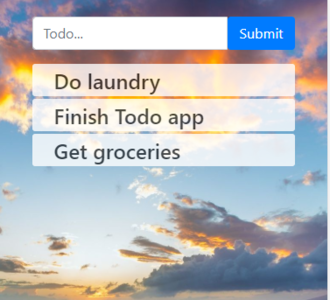
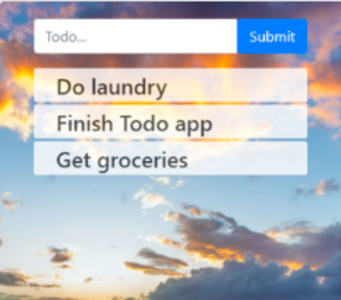
deploy

diff --git a/src/components/project/project.jsx b/src/components/project/project.jsx
@@ -18,7 +18,8 @@ const Project = (props) => {
                 </div>
                     {
                         Array(props.skills).map((skill) =>
-                            <img src={skill} alt={skill} key={skill}></img>
+                            console.log(skill)
+                            // <img src={skill} alt={skill} key={skill} ></img>
                         )
                     }
                 <div>

diff --git a/src/styles/projects.css b/src/styles/projects.css
@@ -15,7 +15,7 @@
 }
 
 .btnContainer{
-    width: 99.8%;
+    width: 100%;
 
 }
 

diff --git a/src/projects_md/weatherApp.md b/src/projects_md/weatherApp.md
@@ -4,7 +4,7 @@ img : 'weather2.png'
 git : 'https://github.com/evanallen13/React-Iphone-Weather-App-Clone'
 hosting : 'https://wizardly-spence-f3a746.netlify.com/'
 skills : 'javascript.png , firebase.png'
-text: 'This was a clone of the Apple Weather app that I build using React.'
+text: 'This was a clone of the Apple Weather app that I build using React. It call to the Open Weather Api.'
 ---
 
 This was a clone of the Apple Weather app that I build using React.
